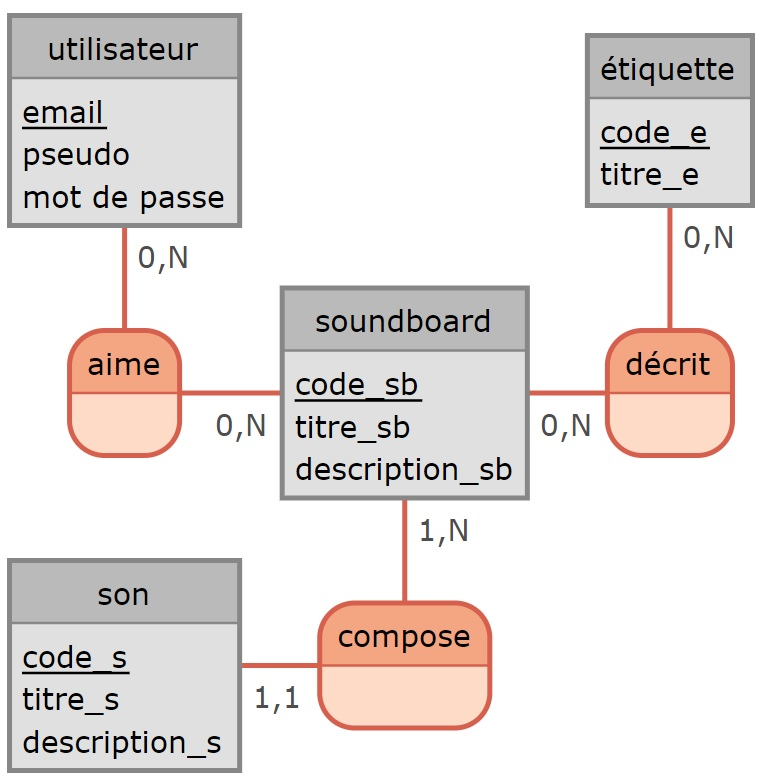
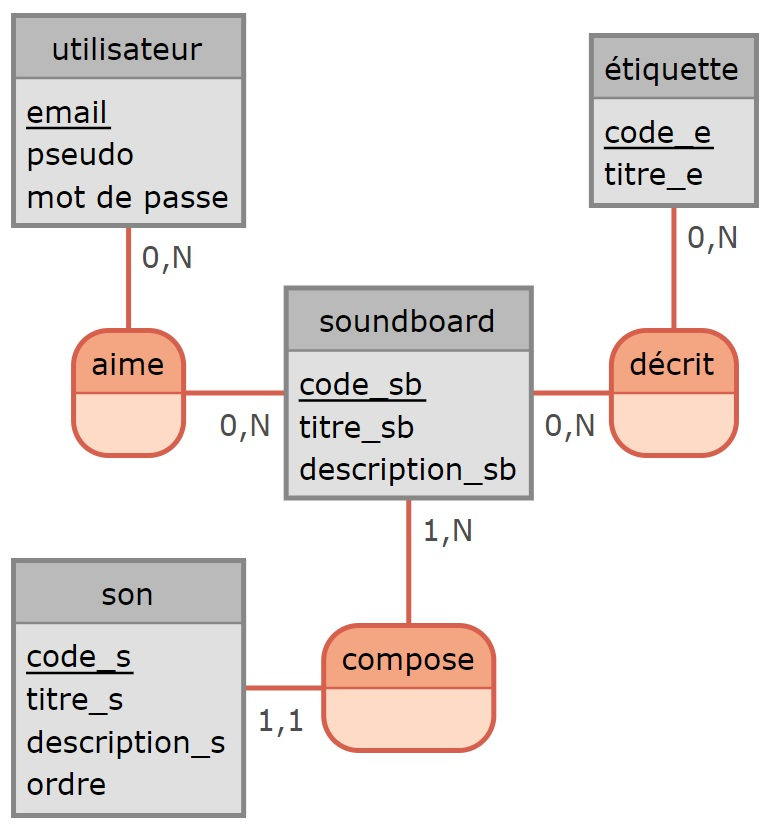
Update mcd to add sound order

Changed region(s): [[0.0, 0.0, 0.9948, 0.7041], [0.0, 0.6429, 0.6632, 1.0]]

diff --git a/docs/mcd/Soundboards.md b/docs/mcd/Soundboards.md
@@ -3,4 +3,4 @@
 **aime** (<ins>_email_</ins>, <ins>_code_sb_</ins>)  
 **soundboard** (<ins>code_sb</ins>, titre_sb, description_sb)  
 **décrit** (<ins>_code_e_</ins>, <ins>_code_sb_</ins>)  
-**son** (<ins>code_s</ins>, titre_s, description_s, _code_sb_)
+**son** (<ins>code_s</ins>, titre_s, description_s, ordre, _code_sb_)
